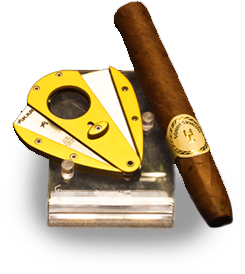
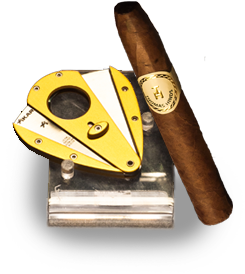
made client changes, fixed cigar on index page (inverted)

Changed region(s): [[0.0571, 0.0, 0.9714, 0.8467]]

diff --git a/index.html b/index.html
@@ -28,7 +28,7 @@
             <li><a href="#">ACCESSORIES</a></li>
             <li><a href="#">SPECIALS</a></li>
             <li><a href="about-us.html">ABOUT US</a></li>
-            <li><a href="#">LOCATIONS</a></li>
+            <li><a href="#">LOCATION</a></li>
             <li><a href="#">CONTACT US</a></li>
           </ul>
         </div>
@@ -42,10 +42,10 @@
                   <img src="images/cigarcutter.png" alt="Cigar Cutter and Accessories"/>
                 </div>
                 <div class="right">
-                  <h1>Headline goes here.</h1>
-                  <h2>Subtitle if needed.</h2>
+                  <h1>Summer Feature.</h1>
+                  <h2>Thomas Hinds Honduran Selection.</h2>
                   <a href="#" class="action-ribbon">CALL TO ACTION</a>
-                  <p> Lorem ipsum dolor sit amet, consectetur adipiscing elit. Curabitur risus erat, dignissim vel laoreet a, cursus nec felis. Fusce tincidunt nisl ut lorem blandit sed pellentesque tortor sodales</p>
+                  <p> <strong>10% off regular retail prices.</strong> Throughout the Summer we are proud to offer the first cigar line to bear the Thomas Hinds label. These Honduran cigars come in six classic sizes from the corona to the double corona sized "Presidente."</p>
                 </div>
               </div>
               <div class="pane">
@@ -98,8 +98,9 @@
           </div>
           <div class="main">
             <div class="couches"> </div>
-            <h2>Title goes here.</h2>
-            <p>Curabitur tortor sem, dignissim a blandit eu, pharetra id quam. Aliquam erat volutpat. Pellentesque in lacus magna. Cras eget eros in leo cursus dapibus. Morbi nec tellus eu lacus euismod fringilla. Etiam consectetur aliquet lorem vehicula iaculis. Class aptent taciti sociosqu ad litora torquent per conubia nostra, per inceptos himenaeos. Donec euismod consequat mi eu accumsan. Proin vitae ipsum ante. Nam porta, ante vitae interdum volutpat, libero elit tristique mauris, quis consectetur eros nunc et erat. Praesent nibh est, tincidunt quis lacinia vel, pretium ac mi.</p>
+            <h2>Welcome to Thomas Hinds</h2>
+            <p>For 20 years Thomas Hinds has been Winnipeg's premier Tobacconist. Through the quality of our products and the excellence of our customer service we have built a shopping experience that is second to none.</p>
+            <p>Visit our walk in cigar humidor for the best Cuban and non-Cuban cigars including the world renowned Thomas Hinds Selection cigars. We also offer a diverse amount of tobacco accessories from quality pipes to cigar humidors to meet the needs of even the most particular tobacco afficianado.</p>
           </div>
 
         </div>

diff --git a/about-us.html b/about-us.html
@@ -25,7 +25,7 @@
             <li><a href="#">ACCESSORIES</a></li>
             <li><a href="#">SPECIALS</a></li>
             <li><a href="about-us.html">ABOUT US</a></li>
-            <li><a href="#">LOCATIONS</a></li>
+            <li><a href="#">LOCATION</a></li>
             <li><a href="#">CONTACT US</a></li>
           </ul>
         </div>
@@ -35,9 +35,9 @@
         <div class="content">
           <div class="main subpage">
             <div id ="specials">
-              <h1>July Feature – Thomas Hinds Honduran Selection</h1>
+              <h1>Summer Feature – Thomas Hinds Honduran Selection</h1>
               <h2>10% off regular retail prices</h2>
-              <p>Throughout July we are proud to offer the first cigar line to bear the Thomas Hinds label. These Honduran cigars come in six classic sizes from the corona to the double corona sized "Presidente."</p>
+              <p>Throughout the Summer we are proud to offer the first cigar line to bear the Thomas Hinds label. These Honduran cigars come in six classic sizes from the corona to the double corona sized "Presidente."</p>
             </div>
             <h2>About Us</h2>
             <p>Since 1991, Thomas Hinds Tobacconist in Winnipeg has been committed to achieving excellence in customer service and quality of product. We strive to provide our clients with that personal touch that helps to make shopping for our products a pleasurable experience.</p>

diff --git a/css/style.css b/css/style.css
@@ -115,6 +115,11 @@ p {font-family:news-gothic-std, sans-serif;font-size:1.4em;}
 
 }
 
+#main div.pane strong{
+  font-weight:bold;
+  color:white;
+}
+
 #main div.main{
   margin-top: 100px;
   padding-left: 45px;
@@ -246,7 +251,7 @@ p {font-family:news-gothic-std, sans-serif;font-size:1.4em;}
   left:0;
   width:420px;
   height:22px;
-  font-size:1.7em;
+  font-size:1.6em;
   border-bottom:1px solid rgb(195,168,139);
   border-bottom:1px solid rgb(195,168,139);
   padding:8px 20px;
